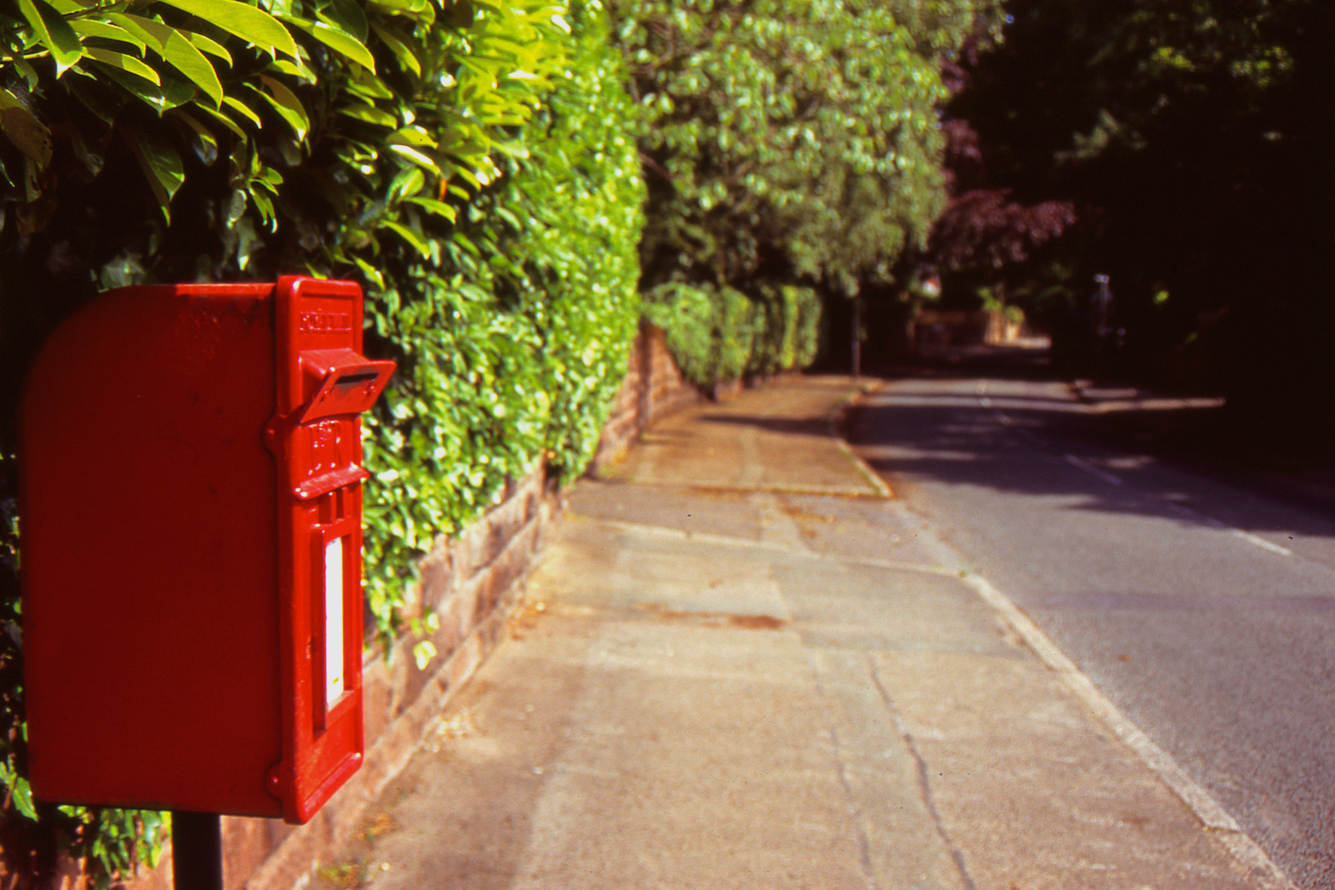
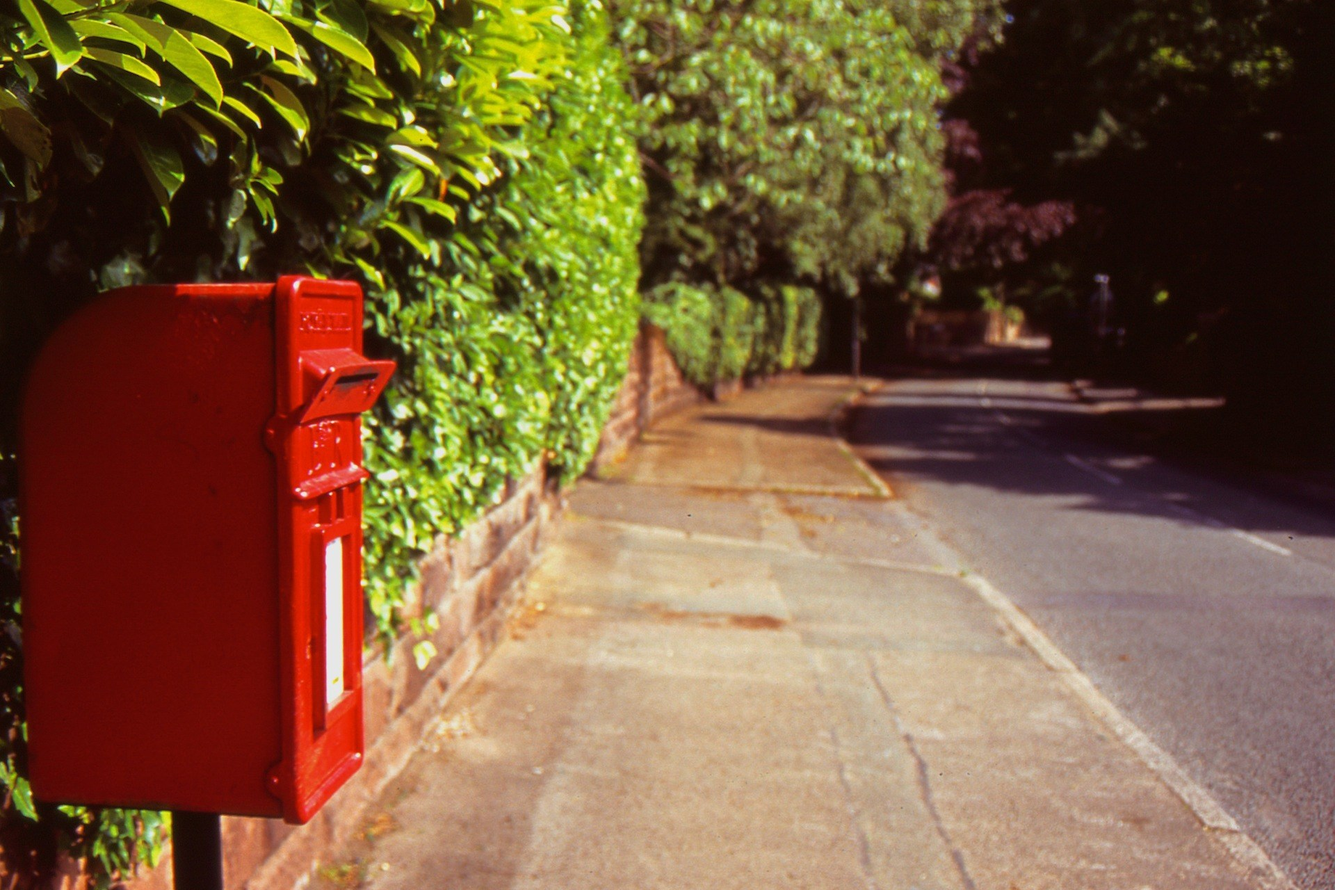
Performance optimizations. - Use minified Bootstrap. - Compress image assets.

diff --git a/index.html b/index.html
@@ -6,7 +6,7 @@
   <meta name="description" content="">
   <meta name="author" content="">
   <title>jquery.addressfield - The simple, configurable, dynamic address field plugin.</title>
-  <link href="css/bootstrap.css" rel="stylesheet">
+  <link href="css/bootstrap.min.css" rel="stylesheet">
   <link href="font-awesome/css/font-awesome.min.css" rel="stylesheet">
   <link href='https://fonts.googleapis.com/css?family=Lato:100,300,400,700,900,100italic,300italic,400italic,700italic,900italic' rel='stylesheet' type='text/css'>
   <link href="css/landing-page.css" rel="stylesheet">
